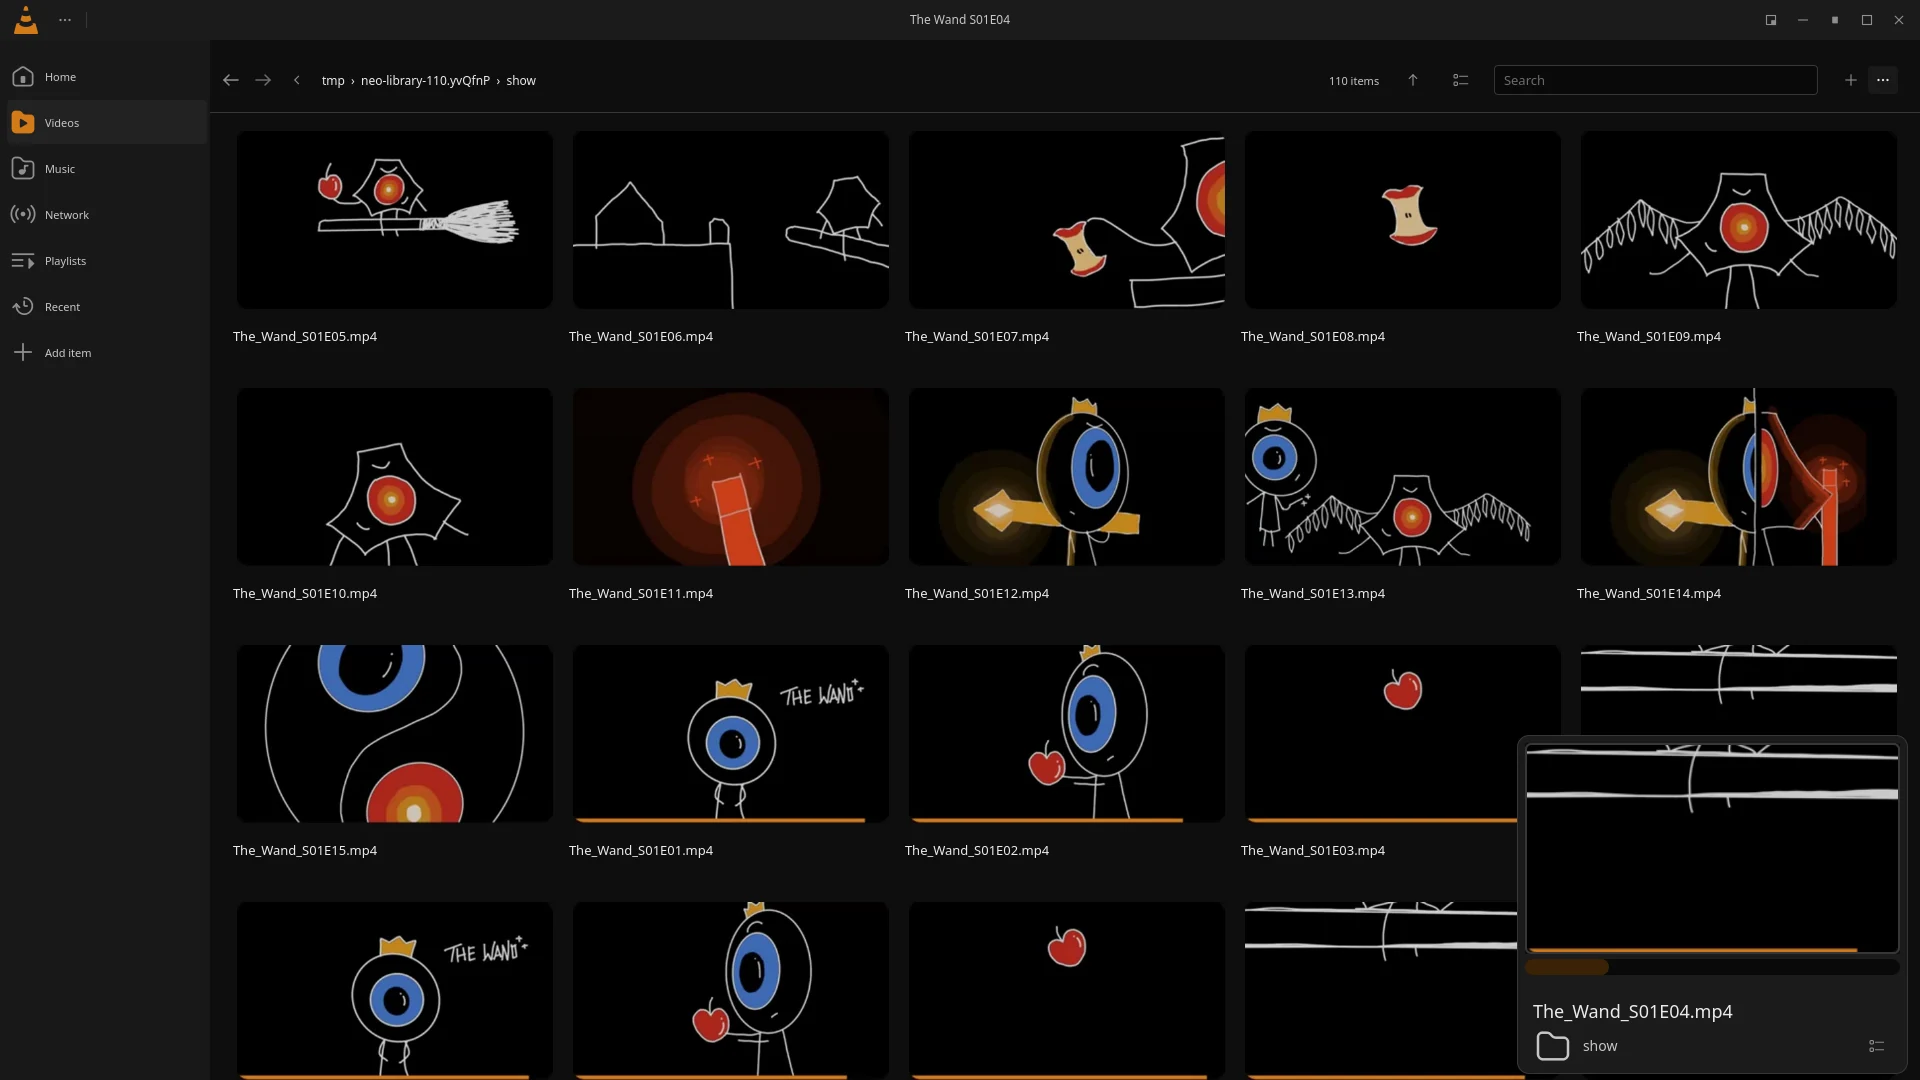
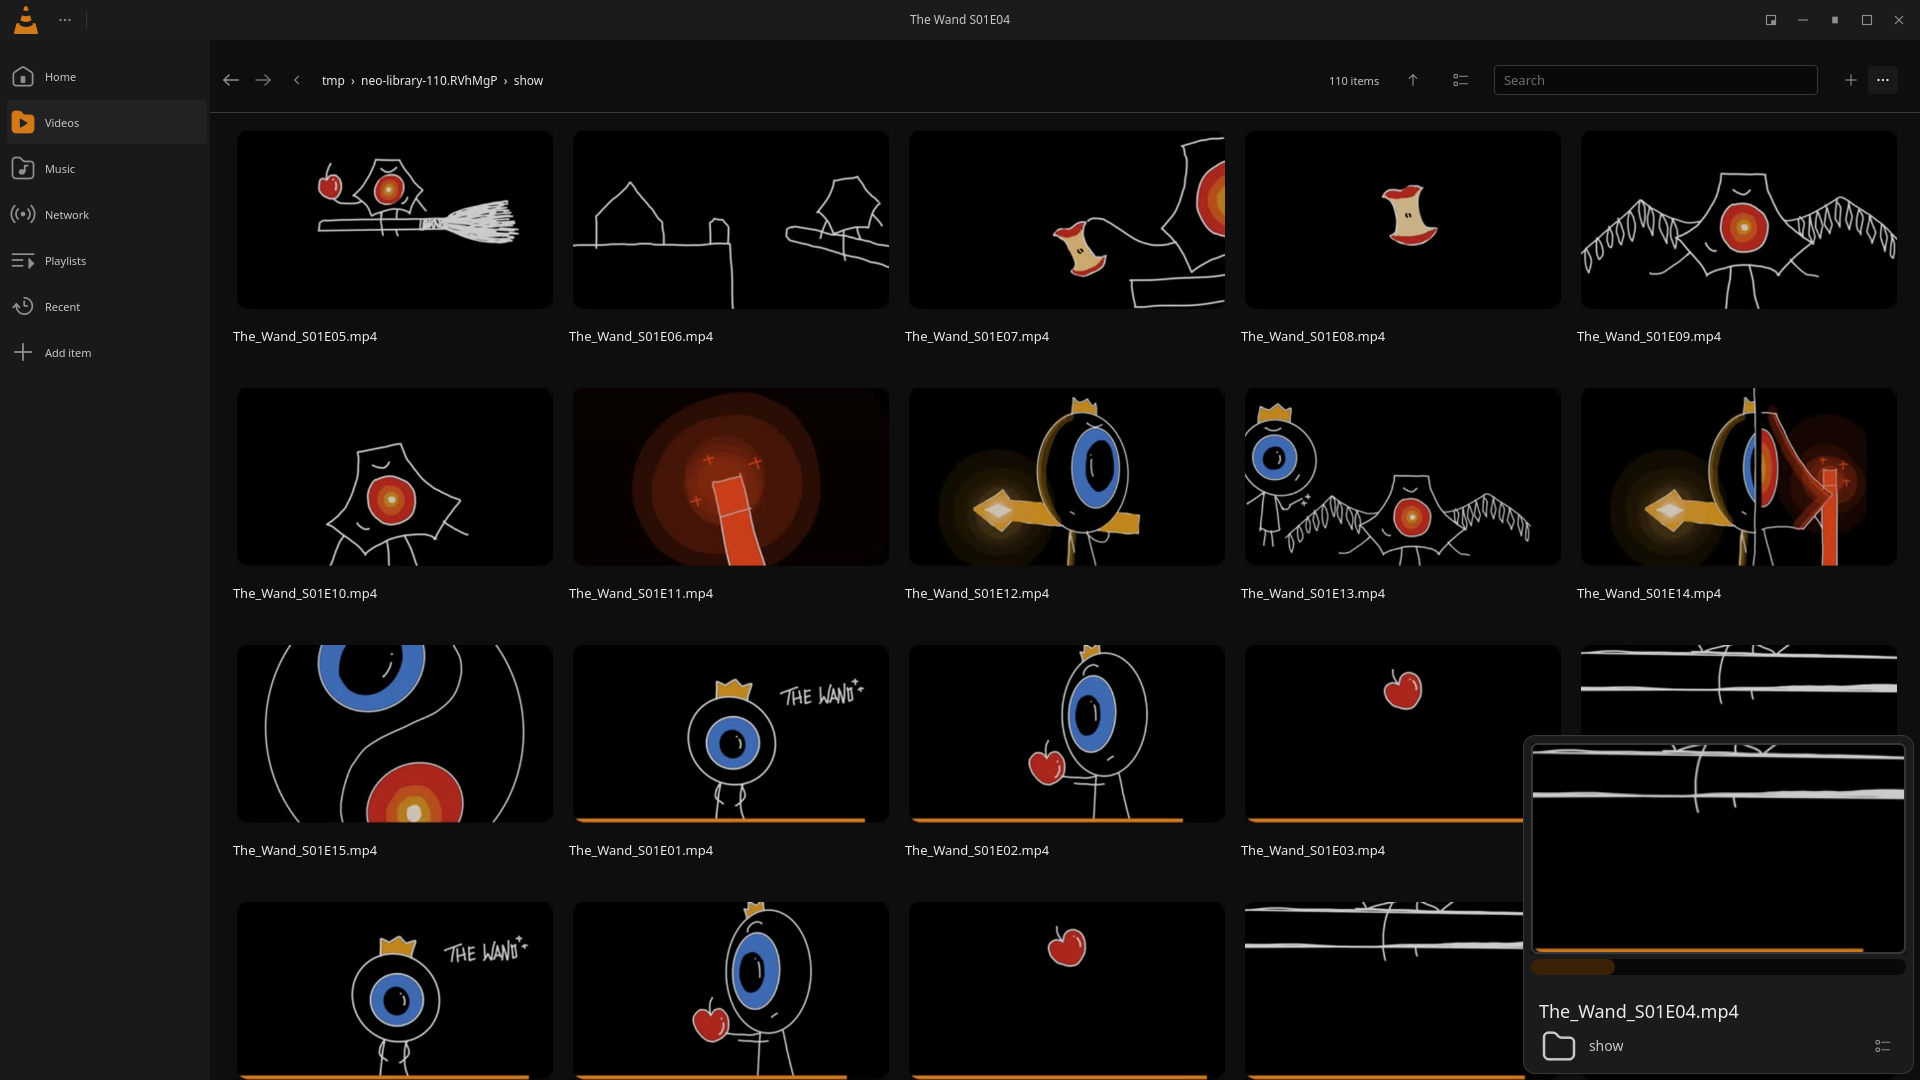
Align library mini-player with Figma grid

diff --git a/qml/LibraryPanel.qml b/qml/LibraryPanel.qml
@@ -1747,7 +1747,7 @@ Rectangle {
                                          ? Math.max(0, (parent.width - width) / 2)
                                          : root.folderViewMode === "list"
                                            ? minimumX
-                                           : Math.max(minimumX, maximumX - 6)
+                                           : Math.max(minimumX, maximumX)
         readonly property real minimumY: root.miniPlayerDockParent ? 0 : root.miniPlayerWindowTopInset + 6
         readonly property real maximumY: root.miniPlayerDockParent
                                          ? Math.max(0, parent.height - height - 16)

diff --git a/docs/figma-parity.md b/docs/figma-parity.md
@@ -321,4 +321,6 @@ OpenSubtitles action-label alignment (2026-10-29): the authenticated `browser` r
 
 Player custom-layout timeline alignment (2026-10-30): a fresh `browser` comparison of Figma node `2160:8732` shows the saved Filename layout has two rows: a full-width timeline above the movable transport row. The timeline now sits in a 34 px row inset 20 px from the window edges, with wider desktop time labels; the lower row keeps Previous/Play/Next centered while metadata and audio/settings actions stay at the sides. The default Figma toolbar remains a single 54 px row. A focused real-VLC sidebar run asserts the custom timeline spans the window, meets the controls row without a gap, and centers transport; all 15 episode thumbnails decode. The refreshed [`customize-folder-browser.webp`](screenshots/customize-folder-browser.webp) uses Figma's dark theme, all 15 reference filenames, the exact E11 display title, and no extra favorite action.
 
-Latest local verification (2026-10-30, current worktree): the Debug build succeeds, CTest passes **14/14**, the full real-VLC smoke suite passes **887/887**, and the focused Figma sidebar probe passes with 15/15 thumbnails. The installed plugin SHA-256 matches the build, and the relaunched VLC Neo process maps that plugin. Cross-distro CI `40973070804` passed on Arch and Mint with 14/14 CTests and 883/883 smoke assertions on each.
+Full-library mini-player alignment (2026-10-30): a direct `browser` inspection of Figma node `970:2703` shows the 391×339 grid mini-player at (1523,735), leaving a 6 px right inset at 1920×1080. The app had an extra 6 px offset after its already-correct right-edge bound. `LibraryPanel.qml` now anchors the default grid position to that bound; list mode remains at x=6. The real-VLC 110-item probe asserts both exact geometries (`1523/735/391/339` grid and `6/735/391/339` list), decodes all 15 poster thumbnails and 88 visible list thumbnails, and the refreshed [`folder-browser-110-grid.webp`](screenshots/folder-browser-110-grid.webp) shows the corrected placement.
+
+Latest local verification (2026-10-30, current worktree): the Debug build succeeds, CTest passes **14/14**, the full real-VLC smoke suite passes **887/887**, and the focused Figma sidebar and 110-item library probes pass. The latter asserts the mini-player at the exact Figma grid/list coordinates, with 15/15 poster thumbnails and 88/88 visible list thumbnails decoded. The installed plugin SHA-256 matches the build, and the relaunched VLC Neo process maps that plugin. Cross-distro CI `40973070804` passed on Arch and Mint with 14/14 CTests and 883/883 smoke assertions on each; cross-distro verification of this latest mini-player correction remains pending.
